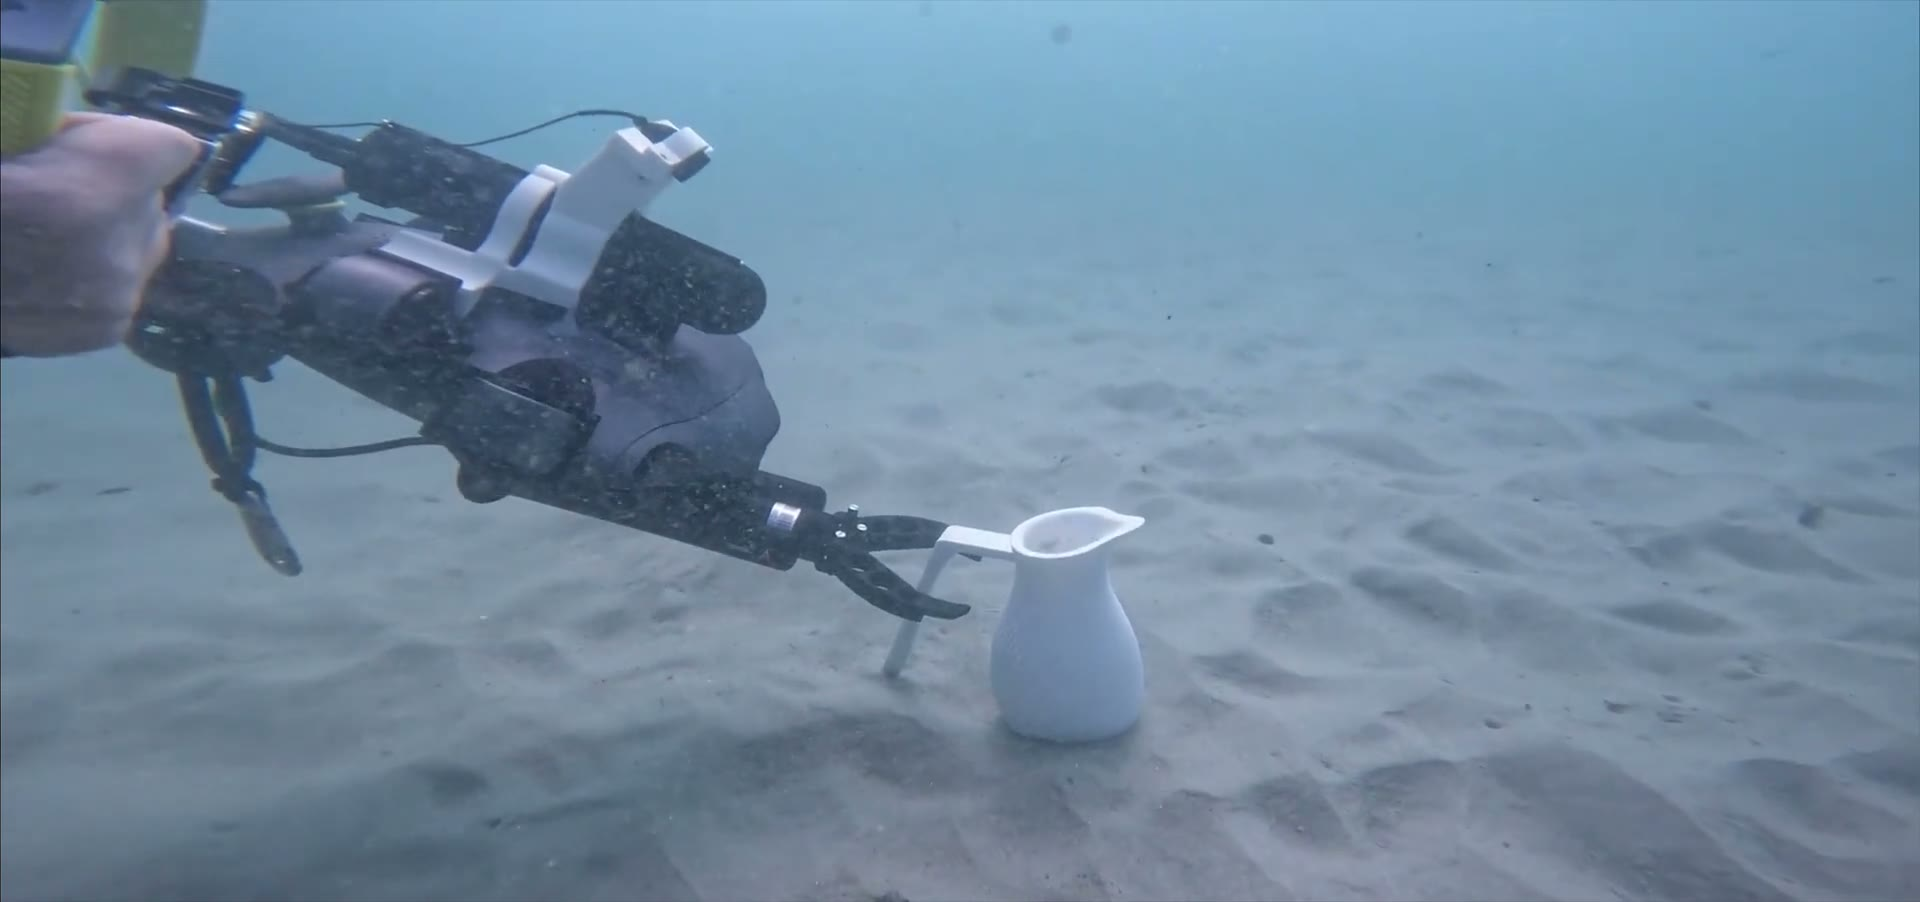
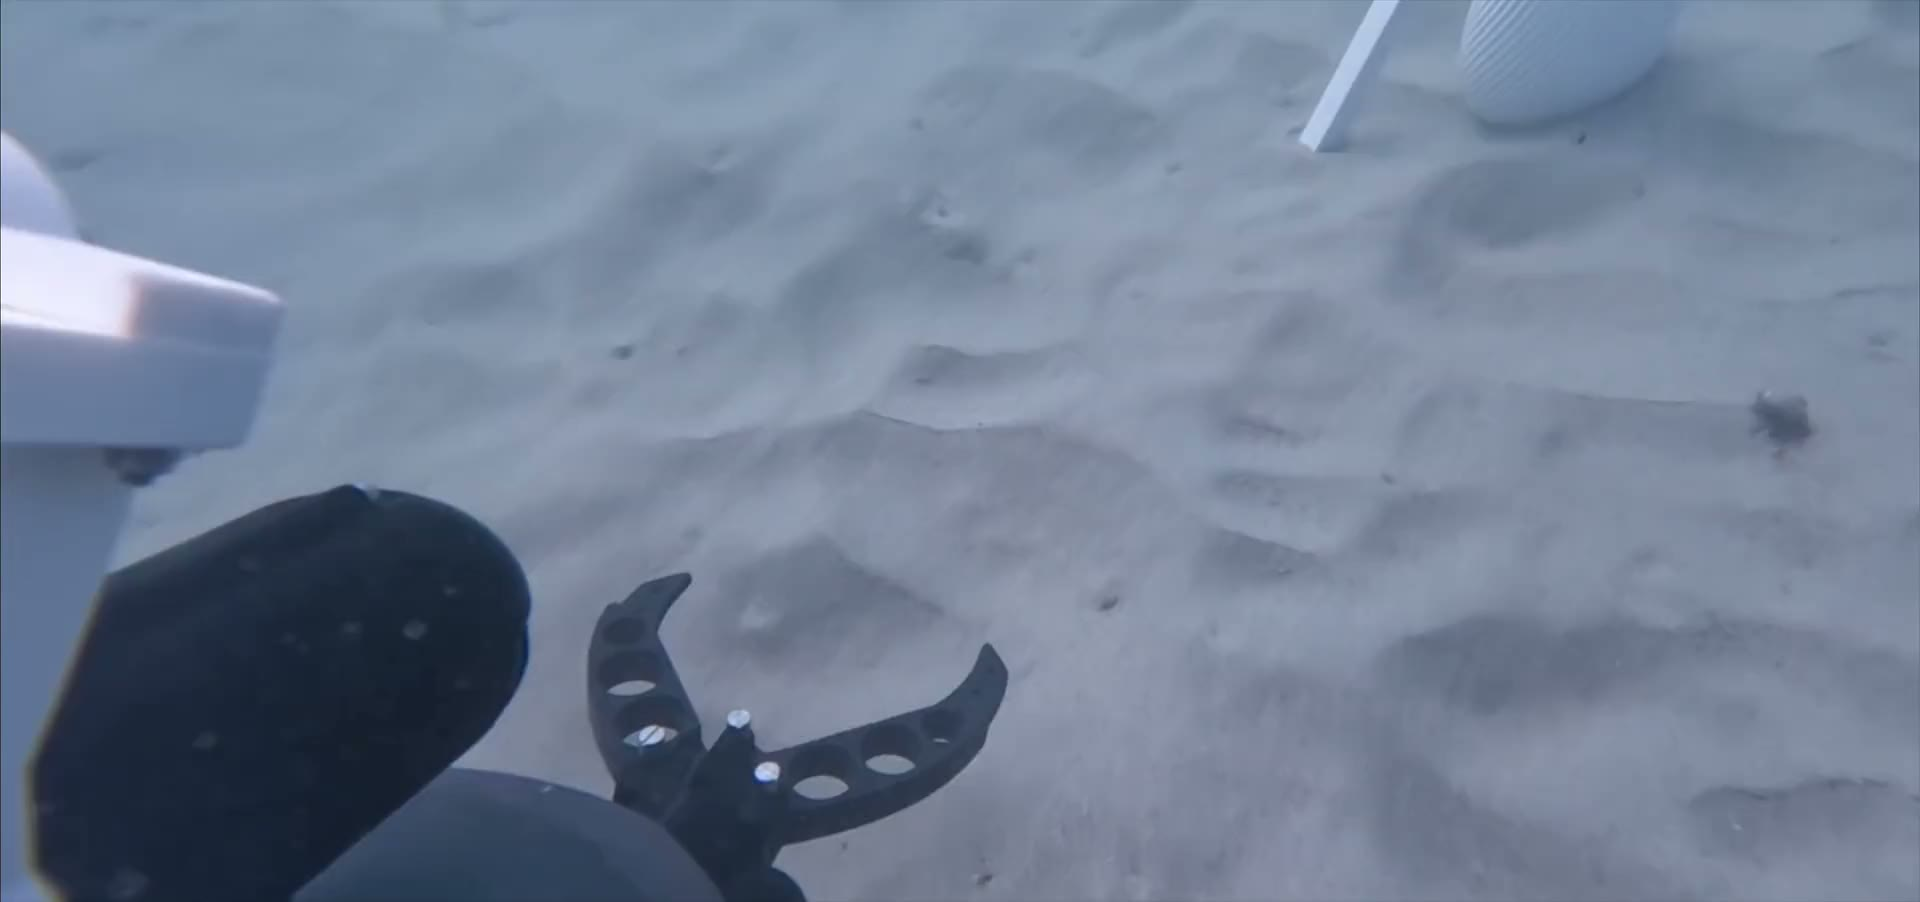
One text flow at full width, and loop the Monterey clip
The two-column treatment was wrong. The copy is one flow again, each
line running the whole 1280px: the lead comes out at two lines, and the
two paragraphs under the figures stack, 1280px and two lines each,
rather than sitting side by side. Kept the widening, dropped the
columns -- .section-head.split and .prose.wide are now just
max-width:none.

The Monterey clip loses its caption and stops being a click-to-play
player: autoplay, loop, muted, playsinline, and data-inline="always"
so it never degrades to a play button. Verified autoplay, loop and
muted all true with controls false and no media error. It reads paused
in a headless snapshot only because it sits 13,000px down the page,
where the intersection observer holds it until it is scrolled to --
which is the behaviour every other inline clip here has.

Poster is back to frame 0 now that playback starts by itself, so there
is no jump from the poster into the first frame. The caption text moves
onto the video as an aria-label, since the clip no longer has a caption
describing it.

diff --git a/research.html b/research.html
@@ -14,8 +14,8 @@
 <link href="https://fonts.googleapis.com" rel="preconnect"/>
 <link crossorigin="" href="https://fonts.gstatic.com" rel="preconnect"/>
 <link href="https://fonts.googleapis.com/css2?family=Space+Mono:wght@400;700&amp;display=swap" rel="stylesheet"/>
-<link href="css/site.css?v=2026-09-09j" rel="stylesheet"/>
-<link href="css/admin.css?v=2026-09-09j" rel="stylesheet"/>
+<link href="css/site.css?v=2026-09-10b" rel="stylesheet"/>
+<link href="css/admin.css?v=2026-09-10b" rel="stylesheet"/>
 <script async="" src="https://www.googletagmanager.com/gtag/js?id=G-YJNN4WK6NG"></script>
 <script>
 window.dataLayer = window.dataLayer || [];
@@ -60,7 +60,7 @@ gtag('config', 'G-YJNN4WK6NG');
 </div>
 </a>
 <a class="projcard" data-blk="b14" data-d="80" data-magnetic="" data-reveal="" href="whisker.html">
-<div class="pc-media"><video autoplay="" aria-label="Movie S9: a gantry tows a target across a test tank while a whisker-equipped ROV reads the wake it leaves, with the FBG1 and FBG2 wavelength traces underneath and the direction the classifier calls from them." data-inline="always" height="720" loop="" muted="" playsinline="" poster="assets/media/img/poster-movie-s9.jpg?v=2026-09-09j" preload="metadata" width="1280"><source src="assets/media/vid/whisker-movie-s9.mp4?v=2026-09-09j" type="video/mp4"/></video></div>
+<div class="pc-media"><video autoplay="" aria-label="Movie S9: a gantry tows a target across a test tank while a whisker-equipped ROV reads the wake it leaves, with the FBG1 and FBG2 wavelength traces underneath and the direction the classifier calls from them." data-inline="always" height="720" loop="" muted="" playsinline="" poster="assets/media/img/poster-movie-s9.jpg?v=2026-09-10b" preload="metadata" width="1280"><source src="assets/media/vid/whisker-movie-s9.mp4?v=2026-09-10b" type="video/mp4"/></video></div>
 <div class="pc-body">
 <div class="pc-top"><span>02 / 03</span><span class="st" data-ed="t7">Submitted to T-RO</span></div>
 <h2 data-ed="t8">Whisker hydrodynamic sensing</h2>
@@ -87,7 +87,7 @@ gtag('config', 'G-YJNN4WK6NG');
 <h2 class="h2" data-d="60" data-ed="t14" data-reveal="">About our ROV</h2>
 </div>
 <figure class="fig plain mid" data-blk="b5" data-d="40" data-reveal="">
-<img alt="Hardware layout: a BlueROV2 carrying a MarineSitu C3 stereo camera and a Newton subsea gripper, a lithium-ion battery, a GigaBlox SFP switch, and a 50 m optical fibre tether running through a USB-C to SFP adapter to the topside computer." decoding="async" loading="lazy" src="assets/media/img/setup-hardware.png?v=2026-09-09j" width="1920" height="828"/>
+<img alt="Hardware layout: a BlueROV2 carrying a MarineSitu C3 stereo camera and a Newton subsea gripper, a lithium-ion battery, a GigaBlox SFP switch, and a 50 m optical fibre tether running through a USB-C to SFP adapter to the topside computer." decoding="async" loading="lazy" src="assets/media/img/setup-hardware.png?v=2026-09-10b" width="1920" height="828"/>
 </figure>
 <div class="figgrid two even" data-blk="b4" data-d="60" data-reveal="">
 <figure class="fig" data-blk="b16">
@@ -102,7 +102,7 @@ gtag('config', 'G-YJNN4WK6NG');
 </figure>
 </div>
 <figure class="fig plain mid" data-blk="b6" data-d="80" data-reveal="">
-<img alt="Block diagram: on the vehicle, the IMU, pressure and temperature sensor, compass and RGB camera feed a Raspberry Pi 4 running Navigator FC and BlueOS, which drives eight T200 thrusters, four lights and the Newton gripper; the stereo camera reaches the topside computer through media converters over the fibre tether." decoding="async" loading="lazy" src="assets/media/img/setup-architecture.png?v=2026-09-09j" width="1920" height="767"/>
+<img alt="Block diagram: on the vehicle, the IMU, pressure and temperature sensor, compass and RGB camera feed a Raspberry Pi 4 running Navigator FC and BlueOS, which drives eight T200 thrusters, four lights and the Newton gripper; the stereo camera reaches the topside computer through media converters over the fibre tether." decoding="async" loading="lazy" src="assets/media/img/setup-architecture.png?v=2026-09-10b" width="1920" height="767"/>
 </figure>
 </div>
 </section>
@@ -233,7 +233,7 @@ gtag('config', 'G-YJNN4WK6NG');
 <button id="abLogout" type="button">Log out</button>
 </span>
 </div>
-<script src="js/admin.js?v=2026-09-09j"></script>
-<script src="js/site.js?v=2026-09-09j"></script>
+<script src="js/admin.js?v=2026-09-10b"></script>
+<script src="js/site.js?v=2026-09-10b"></script>
 </body>
 </html>

diff --git a/underwater-manipulation.html b/underwater-manipulation.html
@@ -14,8 +14,8 @@
 <link href="https://fonts.googleapis.com" rel="preconnect"/>
 <link crossorigin="" href="https://fonts.gstatic.com" rel="preconnect"/>
 <link href="https://fonts.googleapis.com/css2?family=Space+Mono:wght@400;700&amp;display=swap" rel="stylesheet"/>
-<link href="css/site.css?v=2026-09-09j" rel="stylesheet"/>
-<link href="css/admin.css?v=2026-09-09j" rel="stylesheet"/>
+<link href="css/site.css?v=2026-09-10b" rel="stylesheet"/>
+<link href="css/admin.css?v=2026-09-10b" rel="stylesheet"/>
 <script async="" src="https://www.googletagmanager.com/gtag/js?id=G-YJNN4WK6NG"></script>
 <script>
 window.dataLayer = window.dataLayer || [];
@@ -43,7 +43,7 @@ gtag('config', 'G-YJNN4WK6NG');
 <a class="m-cta" href="Juhyun_Jung_CV.pdf" rel="noopener" target="_blank">View the CV →</a>
 <div class="m-meta">Stanford BDML · Underwater robotics</div>
 </nav>
-<main data-build="2026-09-10a" id="main" tabindex="-1">
+<main data-build="2026-09-10b" id="main" tabindex="-1">
 <section class="pcover" data-blk="b108">
 <video autoplay="" aria-label="Project cover: the title &#8220;UMI under Water — robust manipulation in dynamic ocean environments&#8221; over footage of the ROV reaching for a white pitcher on the seabed." data-inline="always" height="1080" loop="" muted="" playsinline="" poster="assets/media/img/poster-manipulation-cover.jpg" preload="metadata" width="1920">
 <source src="assets/media/vid/manipulation-cover.mp4" type="video/mp4"/>
@@ -340,10 +340,9 @@ gtag('config', 'G-YJNN4WK6NG');
 <img alt="Five photographs from the Monterey field day: the team on the boat in wet suits and life jackets with the Hopkins Marine Station shoreline behind them, sunrise over the dock, a diver in the water beside the boat, the boat on its trailer at the ramp, and the team indoors that evening." decoding="async" loading="lazy" src="assets/media/img/monterey-field-day.jpg" width="2400" height="1275"/>
 </figure>
 <figure class="fig" data-blk="b30" data-reveal="">
-<video controls="" height="902" poster="assets/media/img/poster-monterey-result.jpg" preload="metadata" width="1920">
+<video autoplay="" aria-label="The Hopkins deployment: the ROV closes its gripper on a white pitcher resting on the sand and lifts it clear." data-inline="always" height="902" loop="" muted="" playsinline="" poster="assets/media/img/poster-monterey-result.jpg" preload="metadata" width="1920">
 <source src="assets/media/vid/monterey-result.mp4" type="video/mp4"/>
 </video>
-<figcaption data-ed="t96">The Hopkins deployment, 21 seconds. The ROV closes on a white pitcher resting on the sand and lifts it clear. Across the deployment the success rate dropped below 5%.</figcaption>
 </figure>
 </div>
 </section>
@@ -627,7 +626,7 @@ gtag('config', 'G-YJNN4WK6NG');
 <button id="abLogout" type="button">Log out</button>
 </span>
 </div>
-<script src="js/admin.js?v=2026-09-09j"></script>
-<script src="js/site.js?v=2026-09-09j"></script>
+<script src="js/admin.js?v=2026-09-10b"></script>
+<script src="js/site.js?v=2026-09-10b"></script>
 </body>
 </html>

diff --git a/publications.html b/publications.html
@@ -14,8 +14,8 @@
 <link href="https://fonts.googleapis.com" rel="preconnect"/>
 <link crossorigin="" href="https://fonts.gstatic.com" rel="preconnect"/>
 <link href="https://fonts.googleapis.com/css2?family=Space+Mono:wght@400;700&amp;display=swap" rel="stylesheet"/>
-<link href="css/site.css?v=2026-09-09j" rel="stylesheet"/>
-<link href="css/admin.css?v=2026-09-09j" rel="stylesheet"/>
+<link href="css/site.css?v=2026-09-10b" rel="stylesheet"/>
+<link href="css/admin.css?v=2026-09-10b" rel="stylesheet"/>
 <script async="" src="https://www.googletagmanager.com/gtag/js?id=G-YJNN4WK6NG"></script>
 <script>
 window.dataLayer = window.dataLayer || [];
@@ -68,15 +68,15 @@ gtag('config', 'G-YJNN4WK6NG');
 <div class="pub-links">
 <a data-magnetic="" href="Paper/ArticleContent_v7.pdf" rel="noopener" target="_blank">Paper</a>
 <a data-magnetic="" href="Paper/SupplementalMaterial_v5.pdf" rel="noopener" target="_blank">Supplement</a>
-<a data-magnetic="" href="assets/media/vid/whisker-movie-s9.mp4?v=2026-09-09j" rel="noopener" target="_blank">Movie S9</a>
+<a data-magnetic="" href="assets/media/vid/whisker-movie-s9.mp4?v=2026-09-10b" rel="noopener" target="_blank">Movie S9</a>
 <a data-magnetic="" href="https://arxiv.org/abs/2608.24724" rel="noopener" target="_blank">arXiv</a>
 <a data-magnetic="" href="whisker.html">Project page</a>
 <a data-magnetic="" href="https://bdml.stanford.edu/pmwiki/pmwiki.php/Main/HomePage" rel="noopener" target="_blank">BDML</a>
 </div>
 <figure class="fig" data-d="60" data-reveal="">
-<video controls="" poster="assets/media/img/poster-movie-s9.jpg?v=2026-09-09j" preload="metadata" width="1280" height="720">
-<source src="assets/media/vid/whisker-movie-s9.mp4?v=2026-09-09j" type="video/mp4"/>
-Your browser does not support embedded video. <a href="assets/media/vid/whisker-movie-s9.mp4?v=2026-09-09j">Download the movie (MP4)</a> to watch it.
+<video controls="" poster="assets/media/img/poster-movie-s9.jpg?v=2026-09-10b" preload="metadata" width="1280" height="720">
+<source src="assets/media/vid/whisker-movie-s9.mp4?v=2026-09-10b" type="video/mp4"/>
+Your browser does not support embedded video. <a href="assets/media/vid/whisker-movie-s9.mp4?v=2026-09-10b">Download the movie (MP4)</a> to watch it.
 </video>
 <figcaption>Movie S9. A gantry tows a target across the tank and the ROV reads the wake it leaves with a front-mounted whisker. The FBG1 and FBG2 wavelength traces run underneath, and the direction is called from a 2-second window of them.</figcaption>
 </figure>
@@ -233,7 +233,7 @@ Your browser does not support embedded video. <a href="assets/media/vid/whisker-
 <button id="abLogout" type="button">Log out</button>
 </span>
 </div>
-<script src="js/admin.js?v=2026-09-09j"></script>
-<script src="js/site.js?v=2026-09-09j"></script>
+<script src="js/admin.js?v=2026-09-10b"></script>
+<script src="js/site.js?v=2026-09-10b"></script>
 </body>
 </html>

diff --git a/index.html b/index.html
@@ -14,8 +14,8 @@
 <link href="https://fonts.googleapis.com" rel="preconnect"/>
 <link crossorigin="" href="https://fonts.gstatic.com" rel="preconnect"/>
 <link href="https://fonts.googleapis.com/css2?family=Space+Mono:wght@400;700&amp;display=swap" rel="stylesheet"/>
-<link href="css/site.css?v=2026-09-09j" rel="stylesheet"/>
-<link href="css/admin.css?v=2026-09-09j" rel="stylesheet"/>
+<link href="css/site.css?v=2026-09-10b" rel="stylesheet"/>
+<link href="css/admin.css?v=2026-09-10b" rel="stylesheet"/>
 <script async="" src="https://www.googletagmanager.com/gtag/js?id=G-YJNN4WK6NG"></script>
 <script>
 window.dataLayer = window.dataLayer || [];
@@ -81,7 +81,7 @@ gtag('config', 'G-YJNN4WK6NG');
 </div>
 </a>
 <a class="projcard" data-blk="b7" data-d="80" data-magnetic="" data-reveal="" href="whisker.html">
-<div class="pc-media"><video autoplay="" aria-label="Movie S9: a gantry tows a target across a test tank while a whisker-equipped ROV reads the wake it leaves, with the FBG1 and FBG2 wavelength traces underneath and the direction the classifier calls from them." data-inline="always" height="720" loop="" muted="" playsinline="" poster="assets/media/img/poster-movie-s9.jpg?v=2026-09-09j" preload="metadata" width="1280"><source src="assets/media/vid/whisker-movie-s9.mp4?v=2026-09-09j" type="video/mp4"/></video></div>
+<div class="pc-media"><video autoplay="" aria-label="Movie S9: a gantry tows a target across a test tank while a whisker-equipped ROV reads the wake it leaves, with the FBG1 and FBG2 wavelength traces underneath and the direction the classifier calls from them." data-inline="always" height="720" loop="" muted="" playsinline="" poster="assets/media/img/poster-movie-s9.jpg?v=2026-09-10b" preload="metadata" width="1280"><source src="assets/media/vid/whisker-movie-s9.mp4?v=2026-09-10b" type="video/mp4"/></video></div>
 <div class="pc-body">
 <div class="pc-top"><span>02 / 03</span><span class="st" data-ed="t7">Submitted to T-RO</span></div>
 <h2 data-ed="t8">Whisker hydrodynamic sensing</h2>
@@ -176,7 +176,7 @@ gtag('config', 'G-YJNN4WK6NG');
 <button id="abLogout" type="button">Log out</button>
 </span>
 </div>
-<script src="js/admin.js?v=2026-09-09j"></script>
-<script src="js/site.js?v=2026-09-09j"></script>
+<script src="js/admin.js?v=2026-09-10b"></script>
+<script src="js/site.js?v=2026-09-10b"></script>
 </body>
 </html>

diff --git a/css/site.css b/css/site.css
@@ -132,17 +132,11 @@ h1.eyebrow,h2.eyebrow{margin-top:0;font-weight:400}
 .lead{margin:28px 0 0;max-width:680px;font-size:clamp(16px,1.4vw,21px);line-height:1.5}
 /* Copy set to the full width of the figure grid it belongs to, rather than
    stopping at its own measure and leaving the right half of the row empty
-   next to the photographs. Two tracks, so the line length still reads: one
-   paragraph per column for .prose.wide, and a single lead flowed across. */
+   next to the photographs. One flow, so each line runs the whole width. */
 .section-head.split{max-width:none}
 .section-head.split > .h2{max-width:1000px}
-.section-head.split > .lead{max-width:none;columns:2;column-gap:clamp(24px,3.2vw,56px)}
-.prose.wide{max-width:none;display:grid;grid-template-columns:repeat(2,minmax(0,1fr));gap:clamp(24px,3.2vw,56px)}
-.prose.wide > p{margin-top:0}
-@media (max-width:820px){
-  .section-head.split > .lead{columns:1}
-  .prose.wide{grid-template-columns:1fr}
-}
+.section-head.split > .lead{max-width:none}
+.prose.wide{max-width:none}
 .bg-paper .lead{color:rgba(0,0,0,.62)}
 .bg-ink .lead{color:rgba(23,24,26,.66)}
 

diff --git a/study.html b/study.html
@@ -13,8 +13,8 @@
 <link rel="preconnect" href="https://fonts.googleapis.com">
 <link rel="preconnect" href="https://fonts.gstatic.com" crossorigin>
 <link href="https://fonts.googleapis.com/css2?family=Space+Mono:wght@400;700&display=swap" rel="stylesheet">
-<link rel="stylesheet" href="css/site.css?v=2026-09-09j">
-<link rel="stylesheet" href="css/admin.css?v=2026-09-09j">
+<link rel="stylesheet" href="css/site.css?v=2026-09-10b">
+<link rel="stylesheet" href="css/admin.css?v=2026-09-10b">
 <script async src="https://www.googletagmanager.com/gtag/js?id=G-YJNN4WK6NG"></script>
 <script>
 window.dataLayer = window.dataLayer || [];
@@ -238,8 +238,8 @@ gtag('config', 'G-YJNN4WK6NG');
   </div>
 </div>
 
-<script src="js/admin.js?v=2026-09-09j"></script>
-<script src="js/site.js?v=2026-09-09j"></script>
-<script src="js/study.js?v=2026-09-09j"></script>
+<script src="js/admin.js?v=2026-09-10b"></script>
+<script src="js/site.js?v=2026-09-10b"></script>
+<script src="js/study.js?v=2026-09-10b"></script>
 </body>
 </html>

diff --git a/cv.html b/cv.html
@@ -14,8 +14,8 @@
 <link href="https://fonts.googleapis.com" rel="preconnect"/>
 <link crossorigin="" href="https://fonts.gstatic.com" rel="preconnect"/>
 <link href="https://fonts.googleapis.com/css2?family=Space+Mono:wght@400;700&amp;display=swap" rel="stylesheet"/>
-<link href="css/site.css?v=2026-09-09j" rel="stylesheet"/>
-<link href="css/admin.css?v=2026-09-09j" rel="stylesheet"/>
+<link href="css/site.css?v=2026-09-10b" rel="stylesheet"/>
+<link href="css/admin.css?v=2026-09-10b" rel="stylesheet"/>
 <script async="" src="https://www.googletagmanager.com/gtag/js?id=G-YJNN4WK6NG"></script>
 <script>
 window.dataLayer = window.dataLayer || [];
@@ -341,7 +341,7 @@ gtag('config', 'G-YJNN4WK6NG');
 <button id="abLogout" type="button">Log out</button>
 </span>
 </div>
-<script src="js/admin.js?v=2026-09-09j"></script>
-<script src="js/site.js?v=2026-09-09j"></script>
+<script src="js/admin.js?v=2026-09-10b"></script>
+<script src="js/site.js?v=2026-09-10b"></script>
 </body>
 </html>

diff --git a/powerbuoy.html b/powerbuoy.html
@@ -14,8 +14,8 @@
 <link href="https://fonts.googleapis.com" rel="preconnect"/>
 <link crossorigin="" href="https://fonts.gstatic.com" rel="preconnect"/>
 <link href="https://fonts.googleapis.com/css2?family=Space+Mono:wght@400;700&amp;display=swap" rel="stylesheet"/>
-<link href="css/site.css?v=2026-09-09j" rel="stylesheet"/>
-<link href="css/admin.css?v=2026-09-09j" rel="stylesheet"/>
+<link href="css/site.css?v=2026-09-10b" rel="stylesheet"/>
+<link href="css/admin.css?v=2026-09-10b" rel="stylesheet"/>
 <script async="" src="https://www.googletagmanager.com/gtag/js?id=G-YJNN4WK6NG"></script>
 <script>
 window.dataLayer = window.dataLayer || [];
@@ -171,7 +171,7 @@ gtag('config', 'G-YJNN4WK6NG');
 <button id="abLogout" type="button">Log out</button>
 </span>
 </div>
-<script src="js/admin.js?v=2026-09-09j"></script>
-<script src="js/site.js?v=2026-09-09j"></script>
+<script src="js/admin.js?v=2026-09-10b"></script>
+<script src="js/site.js?v=2026-09-10b"></script>
 </body>
 </html>

diff --git a/whisker.html b/whisker.html
@@ -14,8 +14,8 @@
 <link href="https://fonts.googleapis.com" rel="preconnect"/>
 <link crossorigin="" href="https://fonts.gstatic.com" rel="preconnect"/>
 <link href="https://fonts.googleapis.com/css2?family=Space+Mono:wght@400;700&amp;display=swap" rel="stylesheet"/>
-<link href="css/site.css?v=2026-09-09j" rel="stylesheet"/>
-<link href="css/admin.css?v=2026-09-09j" rel="stylesheet"/>
+<link href="css/site.css?v=2026-09-10b" rel="stylesheet"/>
+<link href="css/admin.css?v=2026-09-10b" rel="stylesheet"/>
 <script async="" src="https://www.googletagmanager.com/gtag/js?id=G-YJNN4WK6NG"></script>
 <script>
 window.dataLayer = window.dataLayer || [];
@@ -283,7 +283,7 @@ gtag('config', 'G-YJNN4WK6NG');
 <button id="abLogout" type="button">Log out</button>
 </span>
 </div>
-<script src="js/admin.js?v=2026-09-09j"></script>
-<script src="js/site.js?v=2026-09-09j"></script>
+<script src="js/admin.js?v=2026-09-10b"></script>
+<script src="js/site.js?v=2026-09-10b"></script>
 </body>
 </html>
